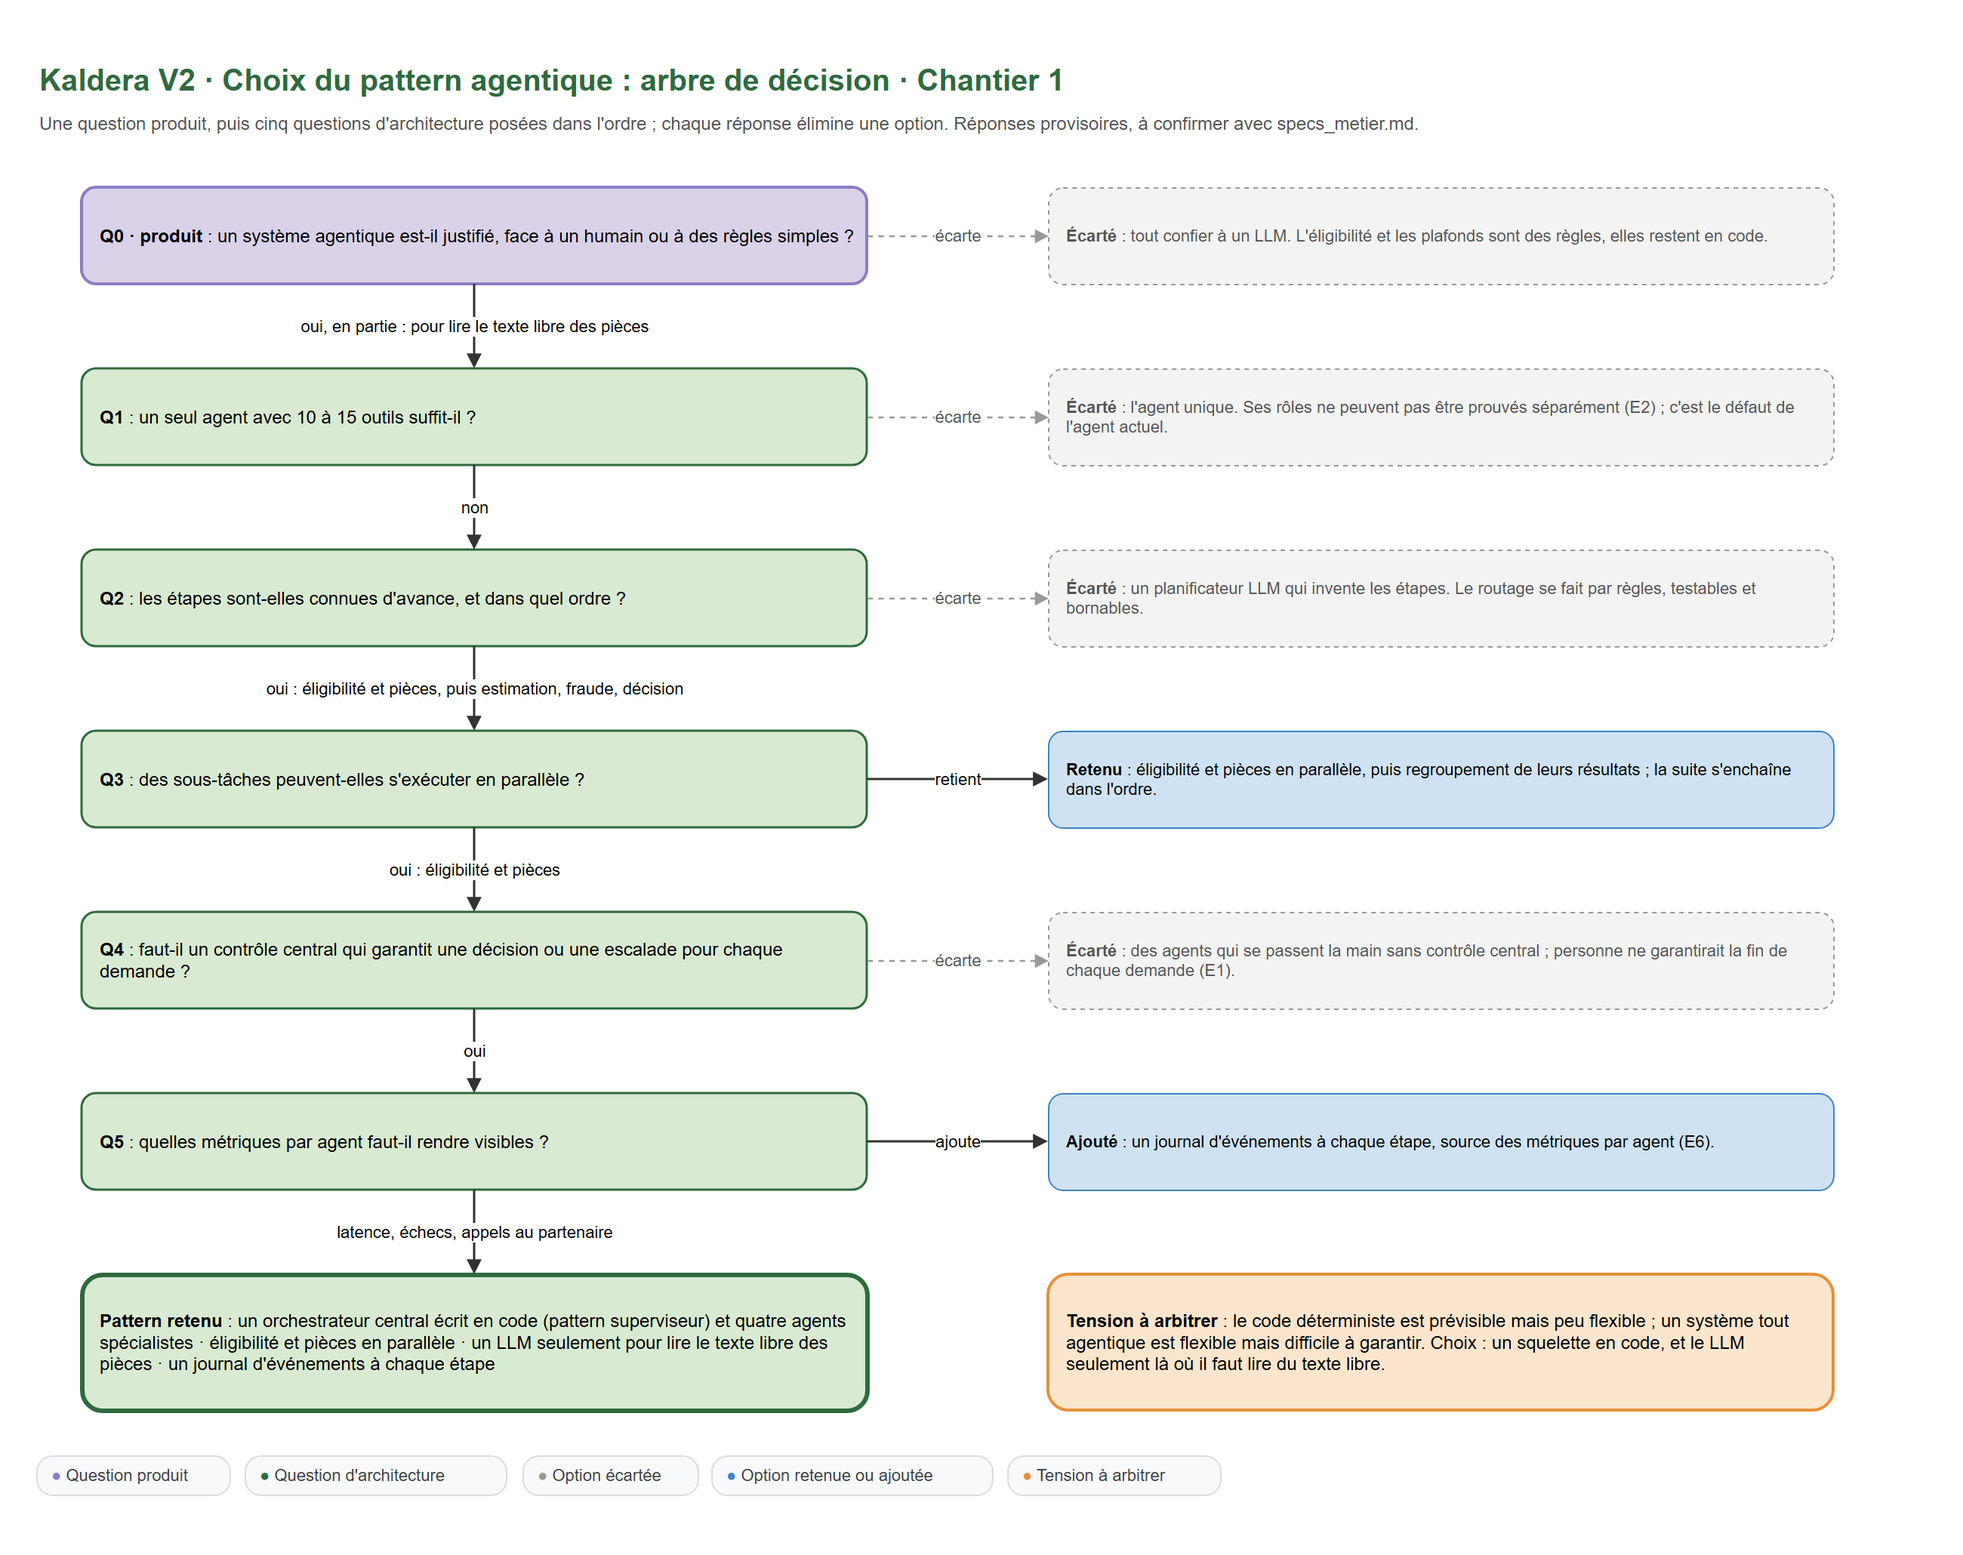
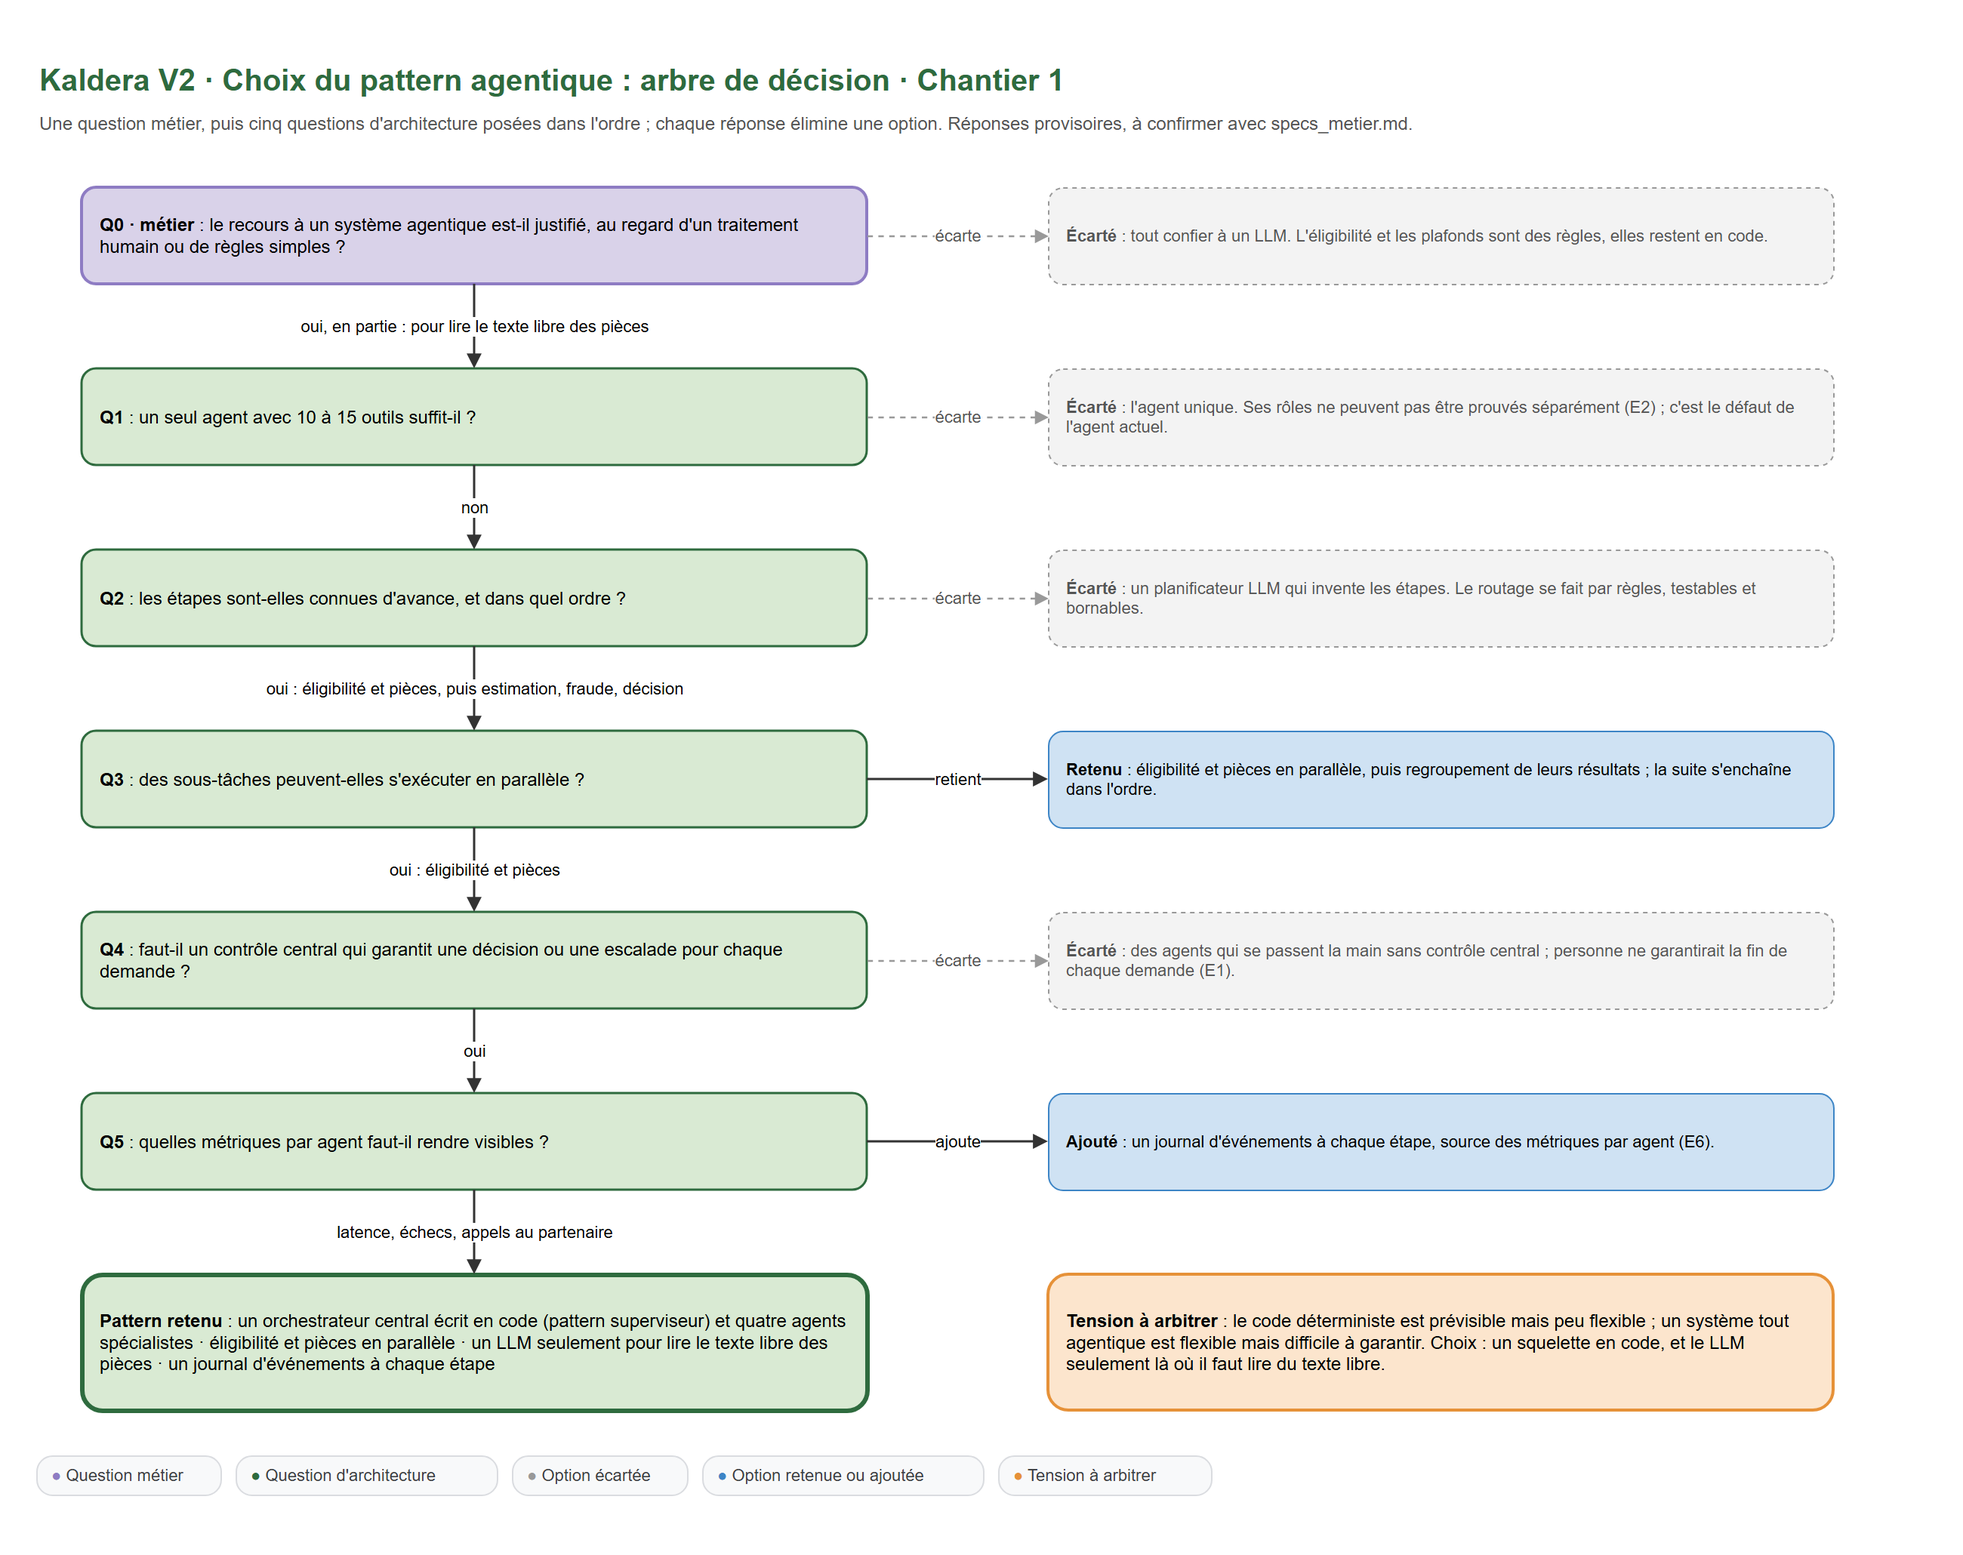
docs(chantier 1): vocabulaire professionnel du cadrage métier
« Le produit avant les agents » devient « Cadrage métier », en trois
volets : analyse de l'existant, expression du besoin, résultats attendus.
« Décide » devient « Impact sur la conception » ; questions reformulées
(gestionnaire de sinistres, indemniser une fraude, parcours réel d'une
demande). Schéma 0 : « Q0 · métier » et légende « Question métier ».

diff --git a/scripts/make_schemas_ch1.py b/scripts/make_schemas_ch1.py
@@ -296,7 +296,7 @@ s.ecrire("schema-3-memoire-partagee", "Mémoire partagée", 1490, 860)
 # =============================================================================================================
 # Schéma 0 : le choix du pattern, arbre de décision
 # =============================================================================================================
-VIOLET = "#8e7cc3"    # question produit
+VIOLET = "#8e7cc3"    # question métier
 MILIEU = "verticalAlign=middle;spacingTop=0;"
 S_QPROD = BASE + GAUCHE + MILIEU + f"rounded=1;fillColor=#d9d2e9;strokeColor={VIOLET};strokeWidth=2;"
 S_QTECH = BASE + GAUCHE + MILIEU + f"rounded=1;fillColor=#d9ead3;strokeColor={VERT};strokeWidth=1.5;"
@@ -306,11 +306,11 @@ S_FINAL = BASE + GAUCHE + MILIEU + f"rounded=1;fillColor=#d9ead3;strokeColor={VE
 
 s = Schema()
 s.box("t", "Kaldera V2 · Choix du pattern agentique : arbre de décision · Chantier 1", 30, 20, 1100, 30, S_TITRE)
-s.box("st", "Une question produit, puis cinq questions d'architecture posées dans l'ordre ; chaque réponse élimine une option. "
+s.box("st", "Une question métier, puis cinq questions d'architecture posées dans l'ordre ; chaque réponse élimine une option. "
             "Réponses provisoires, à confirmer avec specs_metier.md.", 30, 54, 1180, 22, S_SOUS)
 
 questions = [
-    ("q0", "<b>Q0 · produit</b> : un système agentique est-il justifié, face à un humain ou à des règles simples ?", S_QPROD),
+    ("q0", "<b>Q0 · métier</b> : le recours à un système agentique est-il justifié, au regard d'un traitement humain ou de règles simples ?", S_QPROD),
     ("q1", "<b>Q1</b> : un seul agent avec 10 à 15 outils suffit-il ?", S_QTECH),
     ("q2", "<b>Q2</b> : les étapes sont-elles connues d'avance, et dans quel ordre ?", S_QTECH),
     ("q3", "<b>Q3</b> : des sous-tâches peuvent-elles s'exécuter en parallèle ?", S_QTECH),
@@ -344,6 +344,6 @@ for i in range(6):
 s.box("tension", "<b>Tension à arbitrer</b> : le code déterministe est prévisible mais peu flexible ; un système tout agentique "
                  "est flexible mais difficile à garantir. Choix : un squelette en code, et le LLM seulement là où il faut lire "
                  "du texte libre.", 700, Y_FIN, 520, 90, S_AMBIG + MILIEU)
-s.legende([(VIOLET, "Question produit"), (VERT, "Question d'architecture"), (GRIS, "Option écartée"),
+s.legende([(VIOLET, "Question métier"), (VERT, "Question d'architecture"), (GRIS, "Option écartée"),
            (BLEU, "Option retenue ou ajoutée"), (ORANGE, "Tension à arbitrer")], 30, Y_FIN + 120)
 s.ecrire("schema-0-arbre-de-decision", "Arbre de décision du pattern", 1260, Y_FIN + 160)

diff --git a/chantier-1-equipe-orchestration.md b/chantier-1-equipe-orchestration.md
@@ -4,58 +4,58 @@ Ce que le brief attend pour ce chantier : la carte des agents (rôles, frontièr
 
 Exigences concernées : E1, E2 et E6, plus E3 pour les champs sensibles de la mémoire. Le détail des exigences est dans le [README](README.md).
 
-Ordre de travail : le produit d'abord (section 1), puis le choix du pattern (section 2), puis l'équipe elle-même (sections 3 à 6). Une architecture choisie avant de connaître le produit risque d'optimiser ce qui n'a pas besoin de l'être.
+Démarche : le cadrage métier (section 1) précède le choix du pattern (section 2) et la conception de l'équipe (sections 3 à 6). Une architecture définie avant le cadrage risque d'optimiser ce qui n'en a pas besoin.
 
-## 1. Le produit avant les agents
+## 1. Cadrage métier
 
-Avant de concevoir l'équipe, on interroge le client sur trois axes : l'existant, le besoin, l'attendu. Challenger ses choix permet de comprendre les vraies contraintes et d'éviter des optimisations inutiles. Sous chaque question, la décision de conception qu'elle permet de prendre.
+Avant toute conception technique, un cadrage avec le métier établit les contraintes réelles du système. Il s'organise en trois volets : l'analyse de l'existant, l'expression du besoin et les résultats attendus. Questionner les choix déjà faits par le client permet d'identifier les contraintes effectives et d'éviter des optimisations sans valeur. Chaque question précise son impact sur la conception.
 
-### L'existant
+### Analyse de l'existant
 
-- [ ] Le système actuel a-t-il déjà fonctionné correctement ? Si oui, depuis quand dérive-t-il, et quelles métriques ou traces montrent le changement ?
-  *Décide : la référence de départ, à laquelle comparer la nouvelle équipe.*
-- [ ] Quelles métriques et quelles traces existent aujourd'hui (journaux, tableaux de bord, suivi LLMOps ou MLOps) ?
-  *Décide : ce qui peut être réutilisé pour l'observabilité.*
-- [ ] Pourquoi l'agent généraliste a-t-il été construit ainsi ? Quels choix ont été faits, et pour quelles raisons ?
-  *Décide : les contraintes cachées à garder ou à lever.*
-- [ ] Combien de demandes arrivent par jour, avec quels pics ? Combien sont bloquées aujourd'hui, et à quelle étape ?
-  *Décide : le parallélisme, les bornes, les priorités.*
-- [ ] Peut-on suivre une vraie demande de bout en bout ? Où attend-elle ?
-  *Décide : les étapes réelles et l'endroit des escalades.*
+- [ ] Le système actuel a-t-il déjà donné satisfaction ? Si oui, depuis quand ses performances se dégradent-elles, et quels indicateurs ou quelles traces l'attestent ?
+  *Impact sur la conception : la situation de référence à laquelle comparer la nouvelle équipe.*
+- [ ] De quels indicateurs et de quelles traces dispose-t-on aujourd'hui (journaux, tableaux de bord, suivi LLMOps ou MLOps) ?
+  *Impact sur la conception : les sources réutilisables pour l'observabilité.*
+- [ ] Pour quelles raisons l'agent généraliste actuel a-t-il été conçu ainsi ?
+  *Impact sur la conception : les contraintes implicites à conserver ou à lever.*
+- [ ] Quel est le volume de demandes (moyenne journalière, pics) ? Combien sont bloquées aujourd'hui, et à quelle étape ?
+  *Impact sur la conception : le parallélisme, les bornes, les priorités de traitement.*
+- [ ] Quel est le parcours réel d'une demande, de sa réception au remboursement, et où se situent les temps d'attente ?
+  *Impact sur la conception : les étapes effectives et le positionnement des escalades.*
 
-### Le besoin
+### Expression du besoin
 
-- [ ] Un système agentique est-il justifié, face à un traitement humain ou à un système déterministe plus simple ? Pour quelles étapes ?
-  *Décide : où un LLM sert vraiment (question Q0 de l'arbre de décision, section 2).*
-- [ ] Le partenaire anti-fraude externe est-il indispensable, ou remplaçable par un contrôle maison ?
-  *Décide : la place de l'échange A2A et du mode dégradé (chantier 2).*
-- [ ] Les règles métier sont-elles écrites (éligibilité, plafonds, pièces exigées) ? Qui les change, et à quelle fréquence ?
-  *Décide : règles écrites en code, ou placées dans une configuration.*
-- [ ] Un refus entièrement automatique est-il permis, ou un humain doit-il confirmer chaque refus ?
-  *Décide : les états finaux. Le RGPD (article 22) encadre les décisions fondées uniquement sur un traitement automatisé ; à confirmer avec le service juridique du client.*
-- [ ] Qu'est-ce qui coûte le plus : payer une fraude, ou refuser à tort une demande valide ?
-  *Décide : la sévérité du contrôle de fraude et le seuil d'escalade.*
-- [ ] Qui traite les escalades, et combien peut-il en absorber par jour ?
-  *Décide : le taux d'escalade acceptable, donc la sévérité des bornes.*
+- [ ] Le recours à un système agentique est-il justifié, au regard d'un traitement humain ou d'un système déterministe plus simple ? Pour quelles étapes ?
+  *Impact sur la conception : le périmètre réel du LLM (question Q0 de l'arbre de décision, section 2).*
+- [ ] Le partenaire anti-fraude externe est-il indispensable, ou un contrôle interne pourrait-il le remplacer ?
+  *Impact sur la conception : la place de l'échange A2A et du mode dégradé (chantier 2).*
+- [ ] Les règles métier (éligibilité, plafonds, pièces exigées) sont-elles formalisées ? Qui les fait évoluer, et à quelle fréquence ?
+  *Impact sur la conception : règles codées, ou externalisées dans une configuration.*
+- [ ] Un refus peut-il être prononcé de façon entièrement automatisée, ou doit-il être validé par un gestionnaire de sinistres ?
+  *Impact sur la conception : les états finaux. L'article 22 du RGPD encadre les décisions fondées exclusivement sur un traitement automatisé ; point à valider avec le service juridique du client.*
+- [ ] Quelle erreur coûte le plus au métier : indemniser une fraude, ou refuser à tort une demande légitime ?
+  *Impact sur la conception : le niveau d'exigence du contrôle de fraude et le seuil d'escalade.*
+- [ ] Quelle équipe traite les escalades, et quelle est sa capacité de traitement journalière ?
+  *Impact sur la conception : le taux d'escalade acceptable, donc la sévérité des bornes.*
 
-### L'attendu
+### Résultats attendus
 
 - [ ] Quel délai de décision vise-t-on pour une demande ?
-  *Décide : le délai global par demande.*
-- [ ] Dans trois mois, quel chiffre dira que le système fonctionne : délai de décision, part de demandes bloquées, part d'escalades, réclamations ?
-  *Décide : les métriques suivies et les seuils des tests.*
-- [ ] Quelles décisions et quelles traces faut-il conserver, combien de temps, et qui les audite ?
-  *Décide : le contenu du journal d'événements et sa durée de conservation.*
+  *Impact sur la conception : le délai global par demande.*
+- [ ] Quels indicateurs mesureront le succès à trois mois : délai de décision, part de demandes bloquées, taux d'escalade, réclamations ?
+  *Impact sur la conception : les métriques suivies et les seuils des tests.*
+- [ ] Quelles décisions et quelles traces doivent être conservées, pour quelle durée, et qui en assure l'audit ?
+  *Impact sur la conception : le contenu du journal d'événements et sa durée de conservation.*
 
-Documents à demander au client : `specs_metier.md`, le contrat du partenaire, quelques demandes réelles anonymisées (dont des demandes restées bloquées) et les journaux d'une semaine difficile. Les demandes réelles deviendront des scénarios du plan d'épreuve.
+Éléments à recueillir auprès du client : `specs_metier.md`, le contrat du partenaire, un échantillon de demandes réelles anonymisées (dont des demandes restées bloquées) et les journaux d'une période de forte charge ou d'incidents. Les demandes réelles alimenteront les scénarios du plan d'épreuve.
 
 ## 2. Le choix du pattern : l'arbre de décision
 
-Les questions se posent dans l'ordre, et chaque réponse élimine une option. Q0 vient de l'axe « besoin » de la section 1 ; Q1 à Q5 portent sur l'architecture. Les réponses sont provisoires en attendant `specs_metier.md` (voir le schéma 0).
+Les questions se posent dans l'ordre, et chaque réponse élimine une option. Q0 est issue de l'expression du besoin (section 1) ; Q1 à Q5 portent sur l'architecture. Les réponses sont provisoires en attendant `specs_metier.md` (voir le schéma 0).
 
 | # | Question | Réponse provisoire | Ce qu'elle écarte ou ajoute |
 |---|---|---|---|
-| Q0 | Un système agentique est-il justifié, face à un humain ou à des règles simples ? | En partie : seulement pour lire le texte libre des pièces | Écarte : tout confier à un LLM. L'éligibilité et les plafonds restent des règles en code |
+| Q0 | Le recours à un système agentique est-il justifié, au regard d'un traitement humain ou de règles simples ? | En partie : seulement pour lire le texte libre des pièces | Écarte : tout confier à un LLM. L'éligibilité et les plafonds restent des règles en code |
 | Q1 | Un seul agent avec 10 à 15 outils suffit-il ? | Non | Écarte : l'agent unique, dont les rôles ne peuvent pas être prouvés séparément (E2) ; c'est le défaut de l'agent actuel |
 | Q2 | Les étapes sont-elles connues d'avance, et dans quel ordre ? | Oui : éligibilité et pièces, puis estimation, fraude, décision | Écarte : un planificateur LLM qui invente les étapes. Le routage se fait par règles, testables et bornables |
 | Q3 | Des sous-tâches peuvent-elles s'exécuter en parallèle ? | Oui : éligibilité et pièces | Retient : ces deux étapes en parallèle, puis le regroupement de leurs résultats |
@@ -224,7 +224,7 @@ Première proposition, provisoire : les choix qui dépendent de `specs_metier.md
 
 ### 0. Le choix du pattern : l'arbre de décision
 
-Une question produit (Q0), puis cinq questions d'architecture posées dans l'ordre ; chaque réponse élimine une option, jusqu'au pattern retenu. Fichiers : [schema-0-arbre-de-decision.drawio](schemas/schema-0-arbre-de-decision.drawio), [PNG](schemas/schema-0-arbre-de-decision.png).
+Une question métier (Q0), puis cinq questions d'architecture posées dans l'ordre ; chaque réponse élimine une option, jusqu'au pattern retenu. Fichiers : [schema-0-arbre-de-decision.drawio](schemas/schema-0-arbre-de-decision.drawio), [PNG](schemas/schema-0-arbre-de-decision.png).
 
 ![Arbre de décision du pattern](schemas/schema-0-arbre-de-decision.png)
 

diff --git a/README.md b/README.md
@@ -12,7 +12,7 @@ Les questions de réflexion ont été discutées en groupe pendant la séance du
 
 | Fichier | Contenu |
 |---|---|
-| [chantier-1-equipe-orchestration.md](chantier-1-equipe-orchestration.md) | Chantier 1 : le produit d'abord (existant, besoin, attendu), choix du pattern par arbre de décision, carte des agents avec contrats et garde-fous, orchestration, mémoire partagée, observabilité et plan de preuve |
+| [chantier-1-equipe-orchestration.md](chantier-1-equipe-orchestration.md) | Chantier 1 : cadrage métier (existant, besoin, résultats attendus), choix du pattern par arbre de décision, carte des agents avec contrats et garde-fous, orchestration, mémoire partagée, observabilité et plan de preuve |
 | [chantier-2-a2a-epreuve.md](chantier-2-a2a-epreuve.md) | Chantier 2 : protocole et contrat A2A, filtre des données, validation des réponses, mode dégradé, plan d'épreuve, journal des ajustements |
 | [schemas/](schemas/) | Schémas du chantier 1, en `.drawio` (modifiable) et en `.png` |
 | [scripts/](scripts/) | Générateur des schémas (`make_schemas_ch1.py`) et de leur légende en puces |
@@ -34,7 +34,7 @@ Les six sont des garanties absolues. Aucune ne peut reposer sur la seule bonne v
 
 | Schéma attendu | Où il se prépare |
 |---|---|
-| Questions produit (existant, besoin, attendu) et choix du pattern | Chantier 1, sections 1 et 2 |
+| Cadrage métier (existant, besoin, résultats attendus) et choix du pattern | Chantier 1, sections 1 et 2 |
 | Carte des agents : rôles, frontières (point ambigu tranché), dépendances, parallélisme | Chantier 1, section 3 |
 | Schéma d'orchestration : délégations, conditions d'arrêt, bornes provisoires | Chantier 1, section 4 |
 | Modèle de la mémoire partagée | Chantier 1, sections 5 et 6 |
